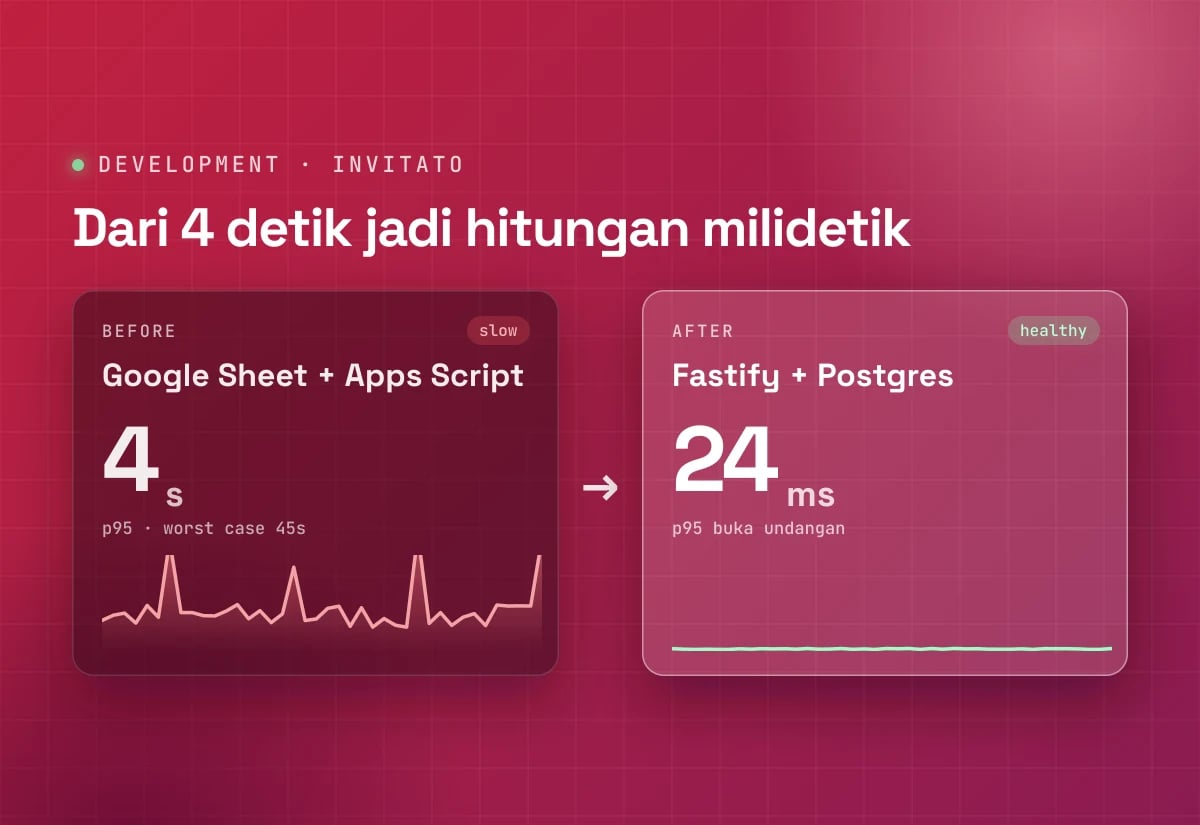
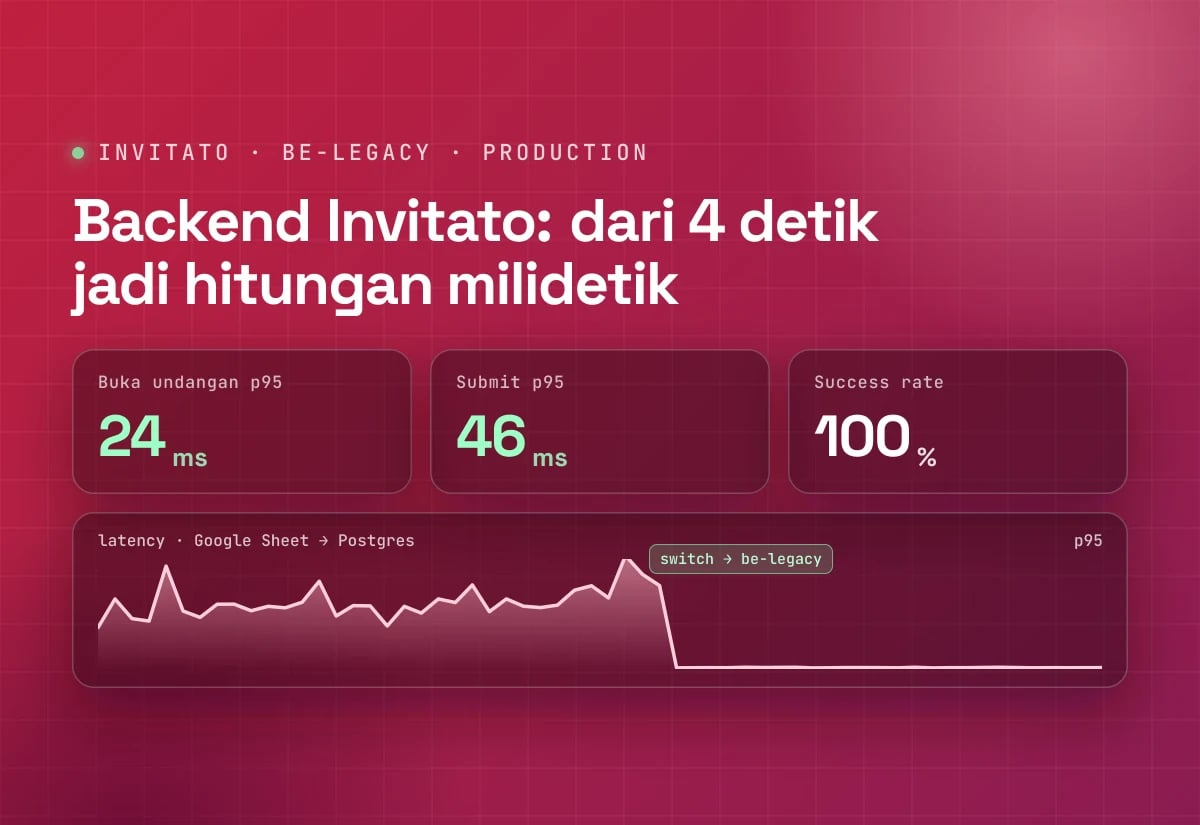
Invitato post: dashboard thumbnail, simpler flow, Telegram alerts
- Thumbnail switched to the dashboard variant.
- Architecture diagram simplified to Cloudflare > Load Balancer >
  VPS Backend App > Supabase.
- Mermaid nodes drawn like the site's cards: hairline border, rounded
  corners, no drop shadow; edge labels in the muted colour.
- Mention Grafana alerts to Telegram.

Claude-Session: https://claude.ai/code/session_01UL7GZmXkva3HZJtAcSBn7w

diff --git a/src/components/Mermaid.tsx b/src/components/Mermaid.tsx
@@ -44,6 +44,18 @@ const PALETTES = {
   },
 } as const;
 
+/**
+ * Nodes drawn like the site's own cards: a hairline border and soft corners,
+ * no drop shadow — Mermaid's default filter reads as a glow on the dark theme.
+ */
+const THEME_CSS = `
+  .node rect, .node polygon, .node path, .node circle { filter: none !important; stroke-width: 1px !important; }
+  .node rect { rx: 12px; ry: 12px; }
+  .nodeLabel { font-weight: 500; }
+  .edgeLabel, .edgeLabel p { font-size: 13px; color: var(--muted); }
+  .flowchart-link { stroke-width: 1.5px; }
+`;
+
 const currentTheme = () =>
   document.documentElement.getAttribute('data-theme') === 'dark' ? 'dark' : 'light';
 
@@ -73,8 +85,10 @@ export default function Mermaid({ chart }: { chart: string }) {
         startOnLoad: false,
         securityLevel: 'strict',
         theme: 'base',
+        look: 'classic',
         themeVariables: { ...PALETTES[theme], fontFamily, fontSize: '14px' },
-        flowchart: { curve: 'basis', htmlLabels: true },
+        themeCSS: THEME_CSS,
+        flowchart: { curve: 'basis', htmlLabels: true, padding: 18 },
       });
       try {
         const { svg } = await mermaid.render(`${id}-${theme}`, chart);
